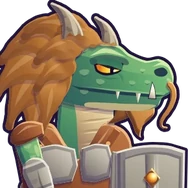
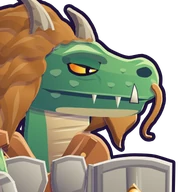
Travail en cours (dessins et outils, hors code du jeu)
Claude-Session: https://claude.ai/code/session_01StTiAZjvnzYLiVPjaUWZHe

diff --git a/refonte-graphique/ui-moderne/heros/tetes.py b/refonte-graphique/ui-moderne/heros/tetes.py
@@ -1,0 +1,204 @@
+# Les têtes des héros pour les CASES (cartes du bas en combat, collection, formation, fusion, courrier…) : la tête
+# entière avec un peu de cou et d'épaules, centrée sur le visage, toutes à la même échelle de tête.
+#   python3 refonte-graphique/ui-moderne/heros/tetes.py            # fabrique les 47 têtes + la planche de contrôle
+#   python3 refonte-graphique/ui-moderne/heros/tetes.py kael nyrra # seulement ces héros (ids du jeu)
+#
+# Sorties : public/art/vecto/v/<id du jeu>.webp (192 × 192, fond transparent) ; planches de contrôle dans
+# refonte-graphique/pixel/sortie/ui/vecto/cases-tetes/ : tetes.png (les 47 têtes côte à côte, en grand, dans des cases
+# comme au jeu) et cadrages.png (chaque héros en entier, le carré découpé dessiné dessus).
+#
+# Rendu : le SVG du héros (dossier heros/<nom>/<nom>.svg, ou fabriqué par son module s'il n'est pas écrit) est rendu
+# par Chromium avec la fenêtre (viewBox) réduite au carré de la tête, à 2 × 192 px, puis réduit (lissé).
+#
+# Réglages par héros : tetes.json (à côté). Pour chaque héros (id du jeu) :
+#   "tete": [x0, y0, x1, y1]   la boîte de la tête dans le repère du dessin (le viewBox du SVG, celui de VECTO) : du haut
+#                              du crâne (cheveux, casque ; sans les cornes, plumes ou ailes qui dépassent) au menton,
+#                              d'une joue à l'autre (museau compris pour les animaux) ;
+#   "zoom" (1 par défaut)      > 1 rapproche, < 1 éloigne ;
+#   "dx", "dy" (0 par défaut)  décalage du carré, en fraction de la taille de la tête (dy > 0 = descend).
+# Le carré : côté = COTE × la taille de la tête (la plus grande de sa hauteur et de 0,85 × sa largeur), centré sur la
+# boîte, un peu plus bas (BAS) pour montrer le cou et le haut des épaules.
+import glob
+import importlib
+import json
+import os
+import re
+import subprocess
+import sys
+import tempfile
+
+from PIL import Image, ImageDraw, ImageFont
+
+HERE = os.path.dirname(os.path.abspath(__file__))
+ROOT = os.path.normpath(os.path.join(HERE, '..', '..', '..'))
+REGLAGES = os.path.join(HERE, 'tetes.json')
+SORTIE = os.path.join(ROOT, 'public', 'art', 'vecto', 'v')
+CONTROLE = os.path.join(ROOT, 'refonte-graphique', 'pixel', 'sortie', 'ui', 'vecto', 'cases-tetes')
+RENDU_LOT = os.path.join(HERE, 'rendu-lot.cjs')
+
+TAILLE = 192          # côté de l'image finale (px)
+RENDU = 2 * TAILLE    # rendu deux fois plus grand, puis réduit : contour bien lisse
+COTE = 1.62           # côté du carré = COTE × taille de la tête
+BAS = 0.07            # le carré descend de BAS × son côté sous le milieu de la tête (cou, épaules)
+
+
+def heros():
+    """Les héros du jeu : [{id, name, el, art}] (art = l'image vectorielle ; monstre pour les héros de clan)."""
+    out = subprocess.run(['npx', 'tsx', '-e', (
+        "import { HEROES } from './src/core/data/heroes'; import { heroArt } from './src/game/look';"
+        "console.log(JSON.stringify(HEROES.map(h => ({ id: h.id, name: h.name, el: h.element, art: heroArt(h.id) }))));")],
+        cwd=ROOT, capture_output=True, text=True, check=True).stdout
+    return json.loads(out.strip().splitlines()[-1])
+
+
+def dossiers():
+    """id de l'image vectorielle → dossier du héros (celui dont un fichier .py écrit vecto/<id>.webp ou nomme l'id)."""
+    res = {}
+    for d in sorted(glob.glob(os.path.join(HERE, '*', ''))):
+        nom = os.path.basename(os.path.dirname(d))
+        if not os.path.exists(os.path.join(d, nom + '.py')):
+            continue
+        txt = ''.join(open(p, encoding='utf-8').read() for p in glob.glob(os.path.join(d, '*.py')))
+        m = re.search(r"vecto/([a-z0-9-]+)\.webp", txt) or re.search(
+            r"ID(?:_JEU)?\s*=\s*'((?:knights|assassins|mages|demons|angels|myths|mon|dragon)-[a-z0-9-]+)'", txt) or re.search(
+            r"'((?:knights|assassins|mages|demons|angels|myths|mon|dragon)-[a-z0-9-]+)'", txt)
+        if m:
+            res.setdefault(m.group(1), nom)
+    return res
+
+
+def svg_de(nom):
+    """Le texte SVG du héros : son fichier <nom>.svg, sinon fabriqué par son module (<nom>.build().svg())."""
+    p = os.path.join(HERE, nom, nom + '.svg')
+    if os.path.exists(p):
+        return open(p, encoding='utf-8').read()
+    sys.path[:0] = [os.path.join(HERE, nom), HERE]
+    return importlib.import_module(nom).build().svg()
+
+
+def carre(r):
+    """Le carré découpé (x, y, côté) dans le repère du dessin, d'après les réglages d'un héros."""
+    x0, y0, x1, y1 = r['tete']
+    t = max(y1 - y0, 0.85 * (x1 - x0))
+    s = COTE * t / r.get('zoom', 1.0)
+    cx = (x0 + x1) / 2 + r.get('dx', 0) * t
+    cy = (y0 + y1) / 2 + BAS * s + r.get('dy', 0) * t
+    return cx - s / 2, cy - s / 2, s
+
+
+def main(seuls):
+    reglages = json.load(open(REGLAGES, encoding='utf-8'))
+    liste = [h for h in heros() if not seuls or h['id'] in seuls]
+    dos = dossiers()
+    manque = [h['id'] for h in liste if h['id'] not in reglages or h['art'] not in dos]
+    if manque:
+        sys.exit('Réglage ou dossier manquant : ' + ', '.join(manque))
+    os.makedirs(SORTIE, exist_ok=True)
+    os.makedirs(CONTROLE, exist_ok=True)
+    tmp = tempfile.mkdtemp(prefix='tetes-')
+    job = {'w': RENDU, 'h': RENDU, 'frames': []}
+    vbs = {}
+    for h in liste:
+        svg = svg_de(dos[h['art']])
+        vbs[h['id']] = [float(v) for v in re.search(r'viewBox="([^"]+)"', svg).group(1).split()]
+        x, y, s = carre(reglages[h['id']])
+        svg = re.sub(r'viewBox="[^"]+"', 'viewBox="%.3f %.3f %.3f %.3f"' % (x, y, s, s), svg, count=1)
+        src, png = os.path.join(tmp, h['id'] + '.svg'), os.path.join(tmp, h['id'] + '.png')
+        open(src, 'w', encoding='utf-8').write(svg)
+        job['frames'].append([src, png])
+    open(os.path.join(tmp, 'job.json'), 'w').write(json.dumps(job))
+    subprocess.run(['node', RENDU_LOT, os.path.join(tmp, 'job.json')], cwd=ROOT, check=True)
+
+    tetes = {}
+    for h in liste:
+        im = Image.open(os.path.join(tmp, h['id'] + '.png')).convert('RGBA').resize((TAILLE, TAILLE), Image.LANCZOS)
+        im.save(os.path.join(SORTIE, h['id'] + '.webp'), 'WEBP', quality=90, method=6)
+        tetes[h['id']] = im
+        # Contrôle : le SVG doit être le même dessin que l'image du jeu (public/art/vecto/<art>.webp).
+        ecart = ecart_webp(h['art'], vbs[h['id']], carre(reglages[h['id']]), im)
+        if ecart > 0.06:
+            print('  attention : %s, le SVG diffère de l\'image du jeu (écart %.2f)' % (h['id'], ecart))
+    print('%d têtes → %s' % (len(tetes), os.path.relpath(SORTIE, ROOT)))
+    if not seuls:
+        planche(liste, tetes)
+        cadrages(liste, reglages, vbs)
+
+
+def ecart_webp(art, vb, sq, tete):
+    """Écart moyen d'opacité entre la tête rendue et le même carré pris dans l'image du jeu (0 = identiques)."""
+    web = Image.open(os.path.join(ROOT, 'public', 'art', 'vecto', art + '.webp')).convert('RGBA')
+    k = web.height / vb[3]
+    x, y, s = sq
+    box = tuple(round(v) for v in ((x - vb[0]) * k, (y - vb[1]) * k, (x - vb[0] + s) * k, (y - vb[1] + s) * k))
+    crop = Image.new('RGBA', (box[2] - box[0], box[3] - box[1]))
+    crop.paste(web.crop(box), (0, 0))
+    a = crop.resize((48, 48), Image.BILINEAR).getchannel('A')
+    b = tete.resize((48, 48), Image.BILINEAR).getchannel('A')
+    return sum(abs(p - q) for p, q in zip(a.tobytes(), b.tobytes())) / (48 * 48 * 255)
+
+
+def police(t):
+    for f in ('/usr/share/fonts/truetype/dejavu/DejaVuSans-Bold.ttf',):
+        if os.path.exists(f):
+            return ImageFont.truetype(f, t)
+    return ImageFont.load_default()
+
+
+COULEUR = {'fire': (255, 107, 61), 'water': (61, 165, 255), 'wind': (91, 209, 122), 'earth': (192, 138, 74)}
+
+
+def planche(liste, tetes):
+    """Les 47 têtes en grand (192 px), chacune dans une case comme au jeu, avec un repère au centre."""
+    col, pas = 8, TAILLE + 24
+    rows = (len(liste) + col - 1) // col
+    im = Image.new('RGBA', (col * pas + 16, rows * (pas + 18) + 16), (36, 26, 56, 255))
+    d = ImageDraw.Draw(im)
+    f = police(14)
+    for i, h in enumerate(liste):
+        x, y = 16 + (i % col) * pas, 16 + (i // col) * (pas + 18)
+        c = COULEUR[h['el']]
+        d.rounded_rectangle([x - 4, y - 4, x + TAILLE + 4, y + TAILLE + 4], 14, fill=(62, 50, 88, 255), outline=c, width=3)
+        im.alpha_composite(tetes[h['id']], (x, y))
+        d.line([(x + TAILLE // 2 - 5, y + TAILLE // 2), (x + TAILLE // 2 + 5, y + TAILLE // 2)], fill=(255, 255, 255, 90))
+        d.line([(x + TAILLE // 2, y + TAILLE // 2 - 5), (x + TAILLE // 2, y + TAILLE // 2 + 5)], fill=(255, 255, 255, 90))
+        d.text((x, y + TAILLE + 6), '%s  %s' % (h['name'], h['id']), fill=(235, 228, 245), font=f)
+    im.convert('RGB').save(os.path.join(CONTROLE, 'tetes.png'))
+    # La même planche en petit, à la taille des cases du jeu (≈ 64 px).
+    pt = 64
+    sm = Image.new('RGBA', (col * (pt + 10) + 10, rows * (pt + 10) + 10), (36, 26, 56, 255))
+    ds = ImageDraw.Draw(sm)
+    for i, h in enumerate(liste):
+        x, y = 10 + (i % col) * (pt + 10), 10 + (i // col) * (pt + 10)
+        ds.rounded_rectangle([x - 2, y - 2, x + pt + 2, y + pt + 2], 8, fill=(62, 50, 88, 255), outline=COULEUR[h['el']], width=2)
+        sm.alpha_composite(tetes[h['id']].resize((pt, pt), Image.LANCZOS), (x, y))
+    sm.convert('RGB').save(os.path.join(CONTROLE, 'tetes-petit.png'))
+    print('planches → %s' % os.path.relpath(CONTROLE, ROOT))
+
+
+def cadrages(liste, reglages, vbs):
+    """Chaque héros en entier (image du jeu), avec la boîte de la tête (bleu) et le carré découpé (or)."""
+    col, cw, ch = 8, 200, 230
+    rows = (len(liste) + col - 1) // col
+    im = Image.new('RGB', (col * cw, rows * ch), (236, 236, 242))
+    d = ImageDraw.Draw(im)
+    f = police(12)
+    for i, h in enumerate(liste):
+        web = Image.open(os.path.join(ROOT, 'public', 'art', 'vecto', h['art'] + '.webp')).convert('RGBA')
+        vb = vbs[h['id']]
+        k = min((cw - 20) / vb[2], (ch - 36) / vb[3])
+        web = web.resize((round(vb[2] * k), round(vb[3] * k)), Image.LANCZOS)
+        ox, oy = (i % col) * cw + 10, (i // col) * ch + 10
+        bg = Image.new('RGBA', web.size, (255, 255, 255, 255))
+        bg.alpha_composite(web)
+        im.paste(bg.convert('RGB'), (ox, oy))
+        p = lambda x, y: (ox + (x - vb[0]) * k, oy + (y - vb[1]) * k)
+        r = reglages[h['id']]
+        d.rectangle([p(*r['tete'][:2]), p(*r['tete'][2:])], outline=(40, 110, 255), width=1)
+        x, y, s = carre(r)
+        d.rectangle([p(x, y), p(x + s, y + s)], outline=(230, 160, 0), width=2)
+        d.text((ox, oy + vb[3] * k + 4), h['id'], fill=(0, 0, 0), font=f)
+    im.save(os.path.join(CONTROLE, 'cadrages.png'))
+
+
+if __name__ == '__main__':
+    main(sys.argv[1:])
